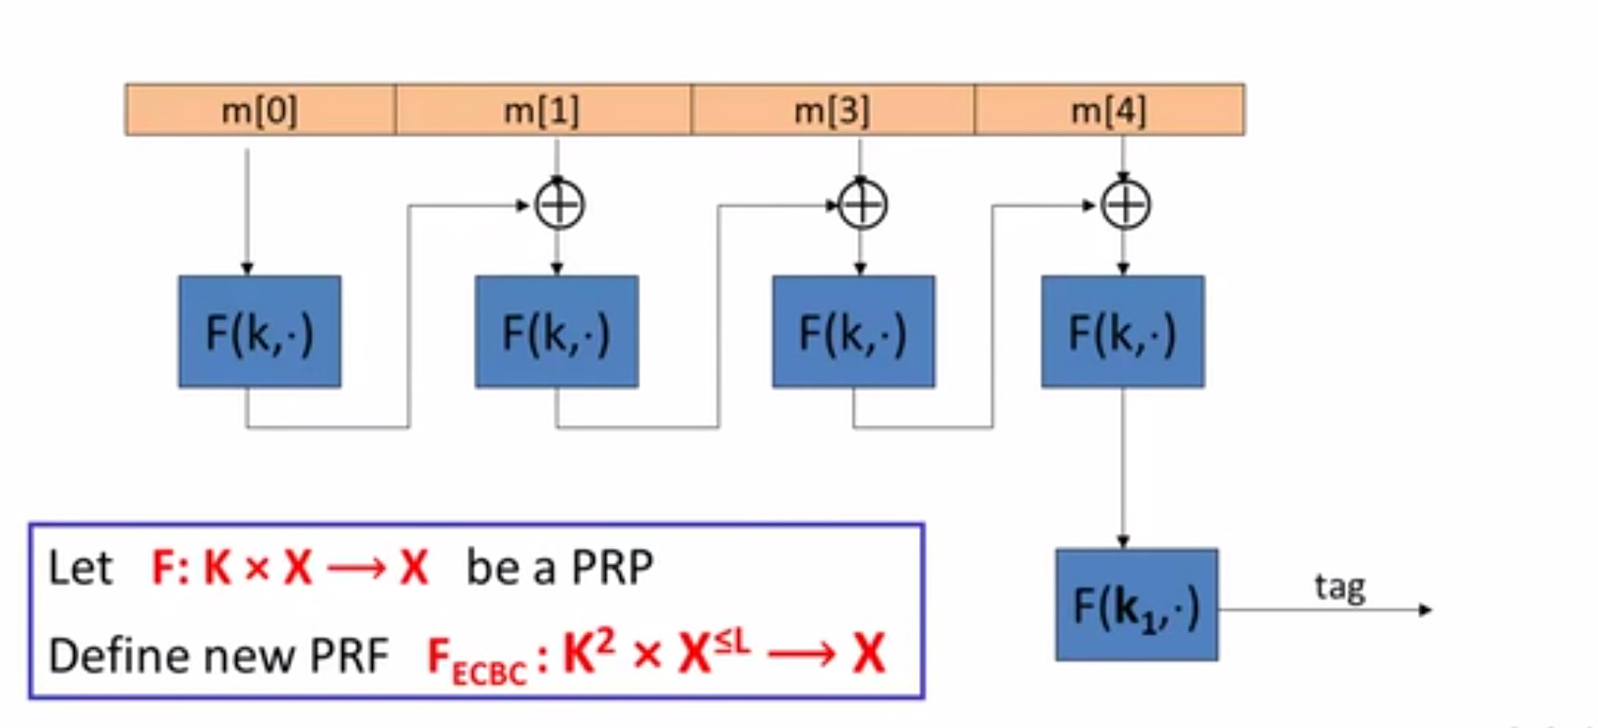
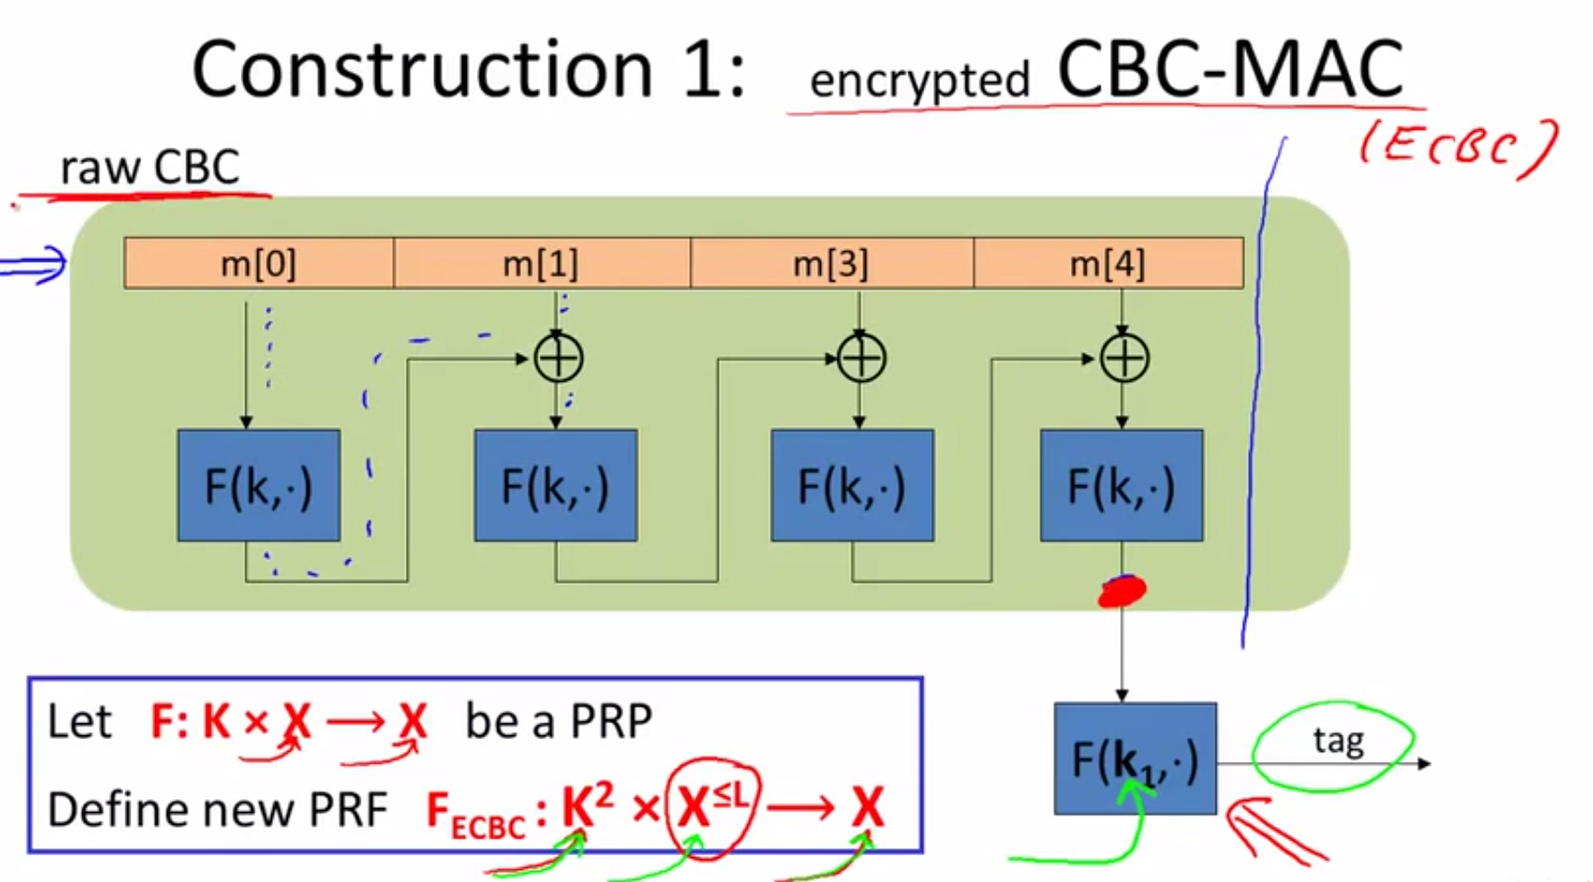
Site updated: 2020-06-24 11:46:48

diff --git a/2020/04/02/【DanBoneh】MessageIntegrity/index.html b/2020/04/02/【DanBoneh】MessageIntegrity/index.html
@@ -85,18 +85,28 @@
 <meta property="og:url" content="http://yoursite.com/2020/04/02/%E3%80%90DanBoneh%E3%80%91MessageIntegrity/index.html">
 <meta property="og:site_name" content="鳕鱼堡er">
 <meta property="og:description" content="Message Auth. CodesMAC（消息验证码）：是一对算法，包含一个签名算法和一个验证算法 I&#x3D;(S,V)，定义在一个密钥空间、一个信息空间、一个标签空间上 (K,M,T)，签名算法 S(k,m) 会输出标签空间 T 中的一个标签 tag，验证算法 V(k,m,tag) 取密钥 k ，信息 m ，标签 tag，输出 yes 或 no。 标准的一致性要求：每一个密钥空间中的密钥 K 和每">
-<meta property="og:image" content="http://yoursite.com/2020/04/02/%E3%80%90DanBoneh%E3%80%91MessageIntegrity/MAC%E6%94%BB%E5%87%BB%E6%A8%A1%E5%9E%8B.PNG">
+<meta property="og:image" content="http://yoursite.com/2020/04/02/%E3%80%90DanBoneh%E3%80%91MessageIntegrity/MAC%E5%AE%89%E5%85%A8%E6%A8%A1%E5%9E%8B.PNG">
+<meta property="og:image" content="http://yoursite.com/2020/04/02/%E3%80%90DanBoneh%E3%80%91MessageIntegrity/%E5%AE%89%E5%85%A8%E7%9A%84MAC%E6%9E%84%E5%BB%BA.PNG">
+<meta property="og:image" content="http://yoursite.com/2020/04/02/%E3%80%90DanBoneh%E3%80%91MessageIntegrity/%E4%B8%80%E4%B8%AA%E7%B3%9F%E7%B3%95%E7%9A%84%E4%BE%8B%E5%AD%90.PNG">
+<meta property="og:image" content="http://yoursite.com/2020/04/02/%E3%80%90DanBoneh%E3%80%91MessageIntegrity/%E5%AE%89%E5%85%A8%E6%80%A7%E5%AE%9A%E7%90%86.PNG">
+<meta property="og:image" content="http://yoursite.com/2020/04/02/%E3%80%90DanBoneh%E3%80%91MessageIntegrity/%E5%AE%89%E5%85%A8%E6%80%A7%E5%AE%9A%E7%90%86%E8%AF%81%E6%98%8E.PNG">
 <meta property="og:image" content="http://yoursite.com/2020/04/02/%E3%80%90DanBoneh%E3%80%91MessageIntegrity/ECBC.PNG">
+<meta property="og:image" content="http://yoursite.com/2020/04/02/%E3%80%90DanBoneh%E3%80%91MessageIntegrity/CBC-MAC%E7%9A%84%E6%89%A9%E5%B1%95%E6%80%A7%E6%94%BB%E5%87%BB.PNG">
+<meta property="og:image" content="http://yoursite.com/2020/04/02/%E3%80%90DanBoneh%E3%80%91MessageIntegrity/%E4%B8%80%E4%B8%AA%E7%89%B9%E6%AE%8A%E7%9A%84%E6%94%BB%E5%87%BB.PNG">
 <meta property="og:image" content="http://yoursite.com/2020/04/02/%E3%80%90DanBoneh%E3%80%91MessageIntegrity/NMAC.PNG">
+<meta property="og:image" content="http://yoursite.com/2020/04/02/%E3%80%90DanBoneh%E3%80%91MessageIntegrity/NMAC%E4%B8%8D%E8%BF%9B%E8%A1%8C%E6%9C%80%E5%90%8E%E4%B8%80%E6%AD%A5%E5%8A%A0%E5%AF%86%E7%9A%84%E4%BE%8B%E5%AD%90.PNG">
+<meta property="og:image" content="http://yoursite.com/2020/04/02/%E3%80%90DanBoneh%E3%80%91MessageIntegrity/NMAC%E7%9A%84%E6%89%A9%E5%B1%95%E6%80%A7%E6%94%BB%E5%87%BB.PNG">
+<meta property="og:image" content="http://yoursite.com/2020/04/02/%E3%80%90DanBoneh%E3%80%91MessageIntegrity/%E5%AE%89%E5%85%A8%E6%80%A7%E5%AE%9A%E7%90%862.PNG">
+<meta property="og:image" content="http://yoursite.com/2020/04/02/%E3%80%90DanBoneh%E3%80%91MessageIntegrity/%E9%92%88%E5%AF%B9CBC-MAC%E7%9A%84%E5%AE%89%E5%85%A8%E6%80%A7%E5%AE%9A%E7%90%86.PNG">
 <meta property="og:image" content="http://yoursite.com/2020/04/02/%E3%80%90DanBoneh%E3%80%91MessageIntegrity/CMAC.PNG">
 <meta property="og:image" content="http://yoursite.com/2020/04/02/%E3%80%90DanBoneh%E3%80%91MessageIntegrity/PMAC.PNG">
 <meta property="article:published_time" content="2020-04-02T01:11:50.000Z">
-<meta property="article:modified_time" content="2020-06-23T08:53:22.135Z">
+<meta property="article:modified_time" content="2020-06-24T03:46:03.375Z">
 <meta property="article:author" content="lucky_Leo">
 <meta property="article:tag" content="DanBoneh密码学">
 <meta property="article:tag" content="密码学">
 <meta name="twitter:card" content="summary">
-<meta name="twitter:image" content="http://yoursite.com/2020/04/02/%E3%80%90DanBoneh%E3%80%91MessageIntegrity/MAC%E6%94%BB%E5%87%BB%E6%A8%A1%E5%9E%8B.PNG">
+<meta name="twitter:image" content="http://yoursite.com/2020/04/02/%E3%80%90DanBoneh%E3%80%91MessageIntegrity/MAC%E5%AE%89%E5%85%A8%E6%A8%A1%E5%9E%8B.PNG">
 
 
 
@@ -361,8 +371,8 @@
               
                 <span class="post-meta-item-text">更新于&#58;</span>
               
-              <time title="更新于" itemprop="dateModified" datetime="2020-06-23T16:53:22+08:00">
-                2020-06-23
+              <time title="更新于" itemprop="dateModified" datetime="2020-06-24T11:46:03+08:00">
+                2020-06-24
               </time>
             
           </span>
@@ -432,7 +442,7 @@
                   <span class="post-meta-item-text">字数统计&#58;</span>
                 
                 <span title="字数统计">
-                  1.1k字
+                  2.2k字
                 </span>
               
 
@@ -448,7 +458,7 @@
                   <span class="post-meta-item-text">阅读时长 &asymp;</span>
                 
                 <span title="阅读时长">
-                  3分钟
+                  7分钟
                 </span>
               
             </div>
@@ -469,22 +479,45 @@
       
 
       
-        <h1><span id="message-auth-codes">Message Auth. Codes</span></h1><p><strong>MAC</strong>（消息验证码）：是一对算法，包含一个<u>签名算法</u>和一个<u>验证算法</u> I=(S,V)，定义在一个密钥空间、一个信息空间、一个标签空间上 (K,M,T)，签名算法 S(k,m) 会输出标签空间 T 中的一个标签 tag，验证算法 V(k,m,tag) 取密钥 k ，信息 m ，标签 tag，输出 yes 或 no。</p>
+        <h4><span id="message-auth-codes">Message Auth. Codes</span></h4><p><strong>MAC</strong>（消息验证码）：是一对算法，包含一个<u>签名算法</u>和一个<u>验证算法</u> I=(S,V)，定义在一个密钥空间、一个信息空间、一个标签空间上 (K,M,T)，签名算法 S(k,m) 会输出标签空间 T 中的一个标签 tag，验证算法 V(k,m,tag) 取密钥 k ，信息 m ，标签 tag，输出 yes 或 no。</p>
 <p><strong>标准的一致性要求</strong>：每一个密钥空间中的密钥 K 和每一个信息空间中的信息 M 都正好满足，如果使用密钥对信息进行签名，使用同样的密钥验证这个签名应该获得 yes 作为回应，V(k,m,S(k,m)) = yes。</p>
 <a id="more"></a>
 <p><strong>CRC</strong>（循环冗余检验）：一个经典的校验和算法，为监测信息中的随机发生的错误而设计，并非针对恶意错误。如果利用 CRC 进行检验，没有密钥，攻击者可以随意更改信息重新计算输出 tag 并得到 yes 的反馈，Alice与攻击者无区别。</p>
 <p>安全的MAC，如果对它进行<strong>选择信息攻击</strong>，是不可能被存在性伪造的。</p>
-<p><strong>存在性伪造</strong>：攻击者不能产生新的信息标签对。</p>
-<p>有两个算法 S 和 V ，有一个攻击者A ，游戏如下：挑战者通常为 MAC 选择一个随机密钥，攻击者进行他的选择信息攻击，他提交 $m_1$ 给挑战者，获得 $m_1$ 的标签，然后提交 $m_2$ 给挑战者，获得 $m_2$ 的标签，直到他提交了 q 个信息给挑战者，获得了 q 个这些信息的标签，这是选择信息攻击的部分，然后攻击者继续试图进行存在性伪造，他输出一个新的信息标签对我们就说他赢下这场游戏，换句话说，b=1 表示他赢下这场游戏。通常，我们定义攻击者的优势等于挑战者在本游戏中输出 1 的概率。安全的MAC系统，对所有有效的攻击者，优势都是可忽略的，换句话说，没有有效的攻击者能够以不可忽视的概率赢得这个游戏。</p>
-<img src="/2020/04/02/%E3%80%90DanBoneh%E3%80%91MessageIntegrity/MAC%E6%94%BB%E5%87%BB%E6%A8%A1%E5%9E%8B.PNG" class title="MAC攻击模型">
-<h1><span id="macs-based-on-prfs">MACs based on PRFs</span></h1><p><u>安全的 PRF 可以构建安全的 MAC</u>。</p>
-<p><strong>CBC-MAC</strong>（ECBC，常与AES一起使用）：取针对短信息的 PRF 为输入，输出一个 PRF ，可以处理长信息作为输出。</p>
+<p><strong>存在性伪造</strong>：攻击者产生新的信息标签对。</p>
+<p>有两个算法 S 和 V ，有一个攻击者A ，游戏如下：挑战者通常为 MAC 选择一个随机密钥，攻击者进行他的<u>选择信息攻击</u>，他提交 $m_1$ 给挑战者，获得 $m_1$ 的标签，然后提交 $m_2$ 给挑战者，获得 $m_2$ 的标签，直到他提交了 q 个信息给挑战者，获得了 q 个这些信息的标签，这是选择信息攻击的部分，然后攻击者继续试图进行存在性伪造，他输出一个新的信息标签对我们就说他赢下这场游戏，换句话说，b=1 表示他赢下这场游戏。通常，我们定义攻击者的优势等于挑战者在本游戏中输出 1 的概率。安全的MAC系统，对所有有效的攻击者，优势都是可忽略的，换句话说，没有有效的攻击者能够以不可忽视的概率赢得这个游戏。</p>
+<img src="/2020/04/02/%E3%80%90DanBoneh%E3%80%91MessageIntegrity/MAC%E5%AE%89%E5%85%A8%E6%A8%A1%E5%9E%8B.PNG" class title="MAC安全模型">
+<h4><span id="macs-based-on-prfs">MACs based on PRFs</span></h4><p><u>安全的 PRF 可以构建安全的 MAC</u>。</p>
+<p><strong>构建安全的MAC</strong>：假设我们有一个伪随机函数 PRF，这个 PRF 取输入 X，输出 Y，<code>F：K×X→Y</code>，定义如下 MAC 为信息 M 签名，<code>S(k,m):= F(k,m)</code>，即计算函数在 M 处的值，信息 M 的标签就是在点 M 处的函数值，然后通过这一对验证信息，方法就是重新计算在信息 M 处的函数值检查结果是否等于给我们的标签，如果一样，我们说“是”，否则我们拒绝。</p>
+<img src="/2020/04/02/%E3%80%90DanBoneh%E3%80%91MessageIntegrity/%E5%AE%89%E5%85%A8%E7%9A%84MAC%E6%9E%84%E5%BB%BA.PNG" class title="安全的MAC构建">
+<p>在如下例题中的 MAC 是不安全的，因为标签太短（当且仅当函数输出太小，才会有问题，如果PRF的输出很大，就可以获得一个安全的 MAC），攻击者有 1/2^(10) 的机会猜中 MAC。对这个MAC 的优势如下：</p>
+<script type="math/tex; mode=display">
+Adv_{MAC}[A,I_F]=\frac{1}{2^{10}}=\frac{1}{1024}(不可忽略)</script><img src="/2020/04/02/%E3%80%90DanBoneh%E3%80%91MessageIntegrity/%E4%B8%80%E4%B8%AA%E7%B3%9F%E7%B3%95%E7%9A%84%E4%BE%8B%E5%AD%90.PNG" class title="一个糟糕的例子">
+<p><strong>安全性定理</strong>：要想获得安全的 MAC，我们需要输出空间很大，例如：取一个 PRF，输出 80 位就很好了，它会产生 80 位 MAC，因此任意攻击者的优势最多是 1/2^(80)。</p>
+<img src="/2020/04/02/%E3%80%90DanBoneh%E3%80%91MessageIntegrity/%E5%AE%89%E5%85%A8%E6%80%A7%E5%AE%9A%E7%90%86.PNG" class title="安全性定理">
+<p><strong>安全性定理证明</strong>：假设有一个从信息空间到标签空间的真随机函数，<code>f:X→Y</code>，这是一个从 X 到 Y 的真随机函数，它是从所有函数集中随机选择的。攻击者获得了信息 $m_1$ 的标签，即在点 $m_1$ 处的函数值，然后攻击者重新选择信息 $m_2$ ，获得了 $m_2$ 的标签，直到 $m_q$ ，他获得了所有对应的标签，它的目标是产生一个新的信息标签对就赢了，也就是存在性伪造，<code>t=f(m)</code>，意味着 t 是 m 的一个有效标签，并且 m 必须是新的，不能是 $m_1$ 到 $m_q$ 中的任何一个，然后它以 1/Y 的概率猜中函数值。</p>
+<img src="/2020/04/02/%E3%80%90DanBoneh%E3%80%91MessageIntegrity/%E5%AE%89%E5%85%A8%E6%80%A7%E5%AE%9A%E7%90%86%E8%AF%81%E6%98%8E.PNG" class title="安全性定理证明">
+<p><strong>简单引理</strong>：如果 N 位 PRF 是安全的，那么 T&lt;N 位的PRF（截断PRF，1/2^T可忽略）也是安全的。</p>
+<h4><span id="cbc-mac-and-nmac">CBC-MAC and NMAC</span></h4><p><strong>CBC-MAC</strong>（ECBC，常与AES一起使用）：取针对短信息的 PRF 为输入，输出一个 PRF ，可以处理长信息作为输出，在银行业广为应用，确保支票的完整性。</p>
+<p>取信息 m ，将它分割成一个个的分组，每个分组和底层函数 f 的分组一样长，然后沿着 CBC 链接运行，但不输出中间值。</p>
+<p>CBC-MAC 可以取最多长 L 个分组的信息，L 可以是百万或十亿的大小。它还可以是变化的输入信息的长度，换句话说，|X|不大于 L，意思是允许输入的信息包含的<u>分组数</u>可以是 0 到 L 的任一数，每个 CBC 可以处理一个分组长的信息、两个分组长的信息、… 、L 个分组长的信息。</p>
 <img src="/2020/04/02/%E3%80%90DanBoneh%E3%80%91MessageIntegrity/ECBC.PNG" class title="ECBC">
 <p>不经历最后一步 $k_1$ 加密的函数，叫做<u>原 CBC 函数</u>。不是一个安全的 MAC。</p>
+<img src="/2020/04/02/%E3%80%90DanBoneh%E3%80%91MessageIntegrity/CBC-MAC%E7%9A%84%E6%89%A9%E5%B1%95%E6%80%A7%E6%94%BB%E5%87%BB.PNG" class title="CBC-MAC的扩展性攻击">
+<p><strong>一个特殊的攻击</strong>：不经历最后一步 $k_1$ 加密的函数，在这个攻击里，攻击者先请求一个特定信息 m 的标签，信息 m 只有一个分组长，对一个单分组信息应用 CBC 意味着，只需要直接应用函数 f ，就获得了这个标签（即直接应用 f 在单分组信息 m 处的结果），现在攻击者有了<code>t=F(k,m)</code>，现在我们声称他可以定义这个信息 m’ ，包含两个分组，第一个是 m ，第二个是 t⊕m ，我们声称刚刚收到的 t 是这两个分组的信息 m’ 的标签，t 是这个两分组信息<code>m&#39;=(m,t⊕m)</code>的有效 MAC ，攻击者可以产生这个有效的标签 t ，而这个两份组的信息是从未被询问过的，因此，他可以破解这个 MAC 。</p>
+<img src="/2020/04/02/%E3%80%90DanBoneh%E3%80%91MessageIntegrity/%E4%B8%80%E4%B8%AA%E7%89%B9%E6%AE%8A%E7%9A%84%E6%94%BB%E5%87%BB.PNG" class title="一个特殊的攻击">
+<p><strong>HMAC</strong>：取处理短输入的 PRF ，产生能处理长输入的 PRF，在因特网上 SSL、IPesc、SSH 等协议使用 HMAC 来保护完整性。</p>
 <p><strong>NMAC</strong>：同上，取处理短输入的 PRF ，产生能处理长输入的 PRF。</p>
+<p>NMAC 用到的 PRF 的分组长度 |X| 远远大于密钥长度，把固定的补齐附在信息后面，fpad 是固定的补齐。</p>
 <img src="/2020/04/02/%E3%80%90DanBoneh%E3%80%91MessageIntegrity/NMAC.PNG" class title="NMAC">
-<p>不经历最后一步 $k_1$ 加密的函数，为<u>级联函数</u>。不是安全的 MAC。最后一步的加密阻止了<u>扩展攻击</u>。</p>
-<p>如果 N 位 PRF 是安全的，那么 T&lt;N 位的PRF（截断PRF，1/2^N可忽略）也是安全的。</p>
+<p>不经历最后一步 $k_1$ 加密的函数，为<u>级联函数</u>。不是安全的 MAC。最后一步的加密阻止了<u>扩展攻击</u>，扩展攻击是针对级联的唯一一种攻击。</p>
+<img src="/2020/04/02/%E3%80%90DanBoneh%E3%80%91MessageIntegrity/NMAC%E4%B8%8D%E8%BF%9B%E8%A1%8C%E6%9C%80%E5%90%8E%E4%B8%80%E6%AD%A5%E5%8A%A0%E5%AF%86%E7%9A%84%E4%BE%8B%E5%AD%90.PNG" class title="NMAC不进行最后一步加密的例子">
+<img src="/2020/04/02/%E3%80%90DanBoneh%E3%80%91MessageIntegrity/NMAC%E7%9A%84%E6%89%A9%E5%B1%95%E6%80%A7%E6%94%BB%E5%87%BB.PNG" class title="NMAC的扩展性攻击">
+<img src="/2020/04/02/%E3%80%90DanBoneh%E3%80%91MessageIntegrity/%E5%AE%89%E5%85%A8%E6%80%A7%E5%AE%9A%E7%90%862.PNG" class title="安全性定理2">
+<p><strong>针对 CBC-MAC 的安全性定理</strong>：q 是询问的信息数，并用一个特定密钥计算 MAC ，假设我们想确保所有的攻击者区分 PRF 和真随机函数的优势都小于 1/2^32 ，根据安全性定理，这意味着我们需要确保 <code>(q^2)/|X| &lt; 1/2^32</code>，超过了 32 这个安全长度就必须更换密钥。</p>
+<img src="/2020/04/02/%E3%80%90DanBoneh%E3%80%91MessageIntegrity/%E9%92%88%E5%AF%B9CBC-MAC%E7%9A%84%E5%AE%89%E5%85%A8%E6%80%A7%E5%AE%9A%E7%90%86.PNG" class title="针对CBC-MAC的安全性定理">
+<p>在签名了 |X|^1/2^ 或 |K| 的平方根个信息后，MAC 就不再安全。</p>
+
 <p><strong>补齐函数</strong>：本身必须是一一映射的函数，它应当是将两个不同的信息映射到不同的两个补齐的信息，不应该在补齐函数上有碰撞，必须是可逆的。</p>
 <p><strong>CMAC</strong>（常与AES一起使用）：可以使用一个随机的补齐函数，不用加假分组。使用三密钥机制，第一个密钥 k 用于 CBC 计算标准的 CBC-MAC 算法，密钥 $k_1$ 和 $k_2$ 仅用于最后一个分组的补齐。 $k_1$ 和 $k_2$ 是使用伪随机数发生器由 k 推出的。如果信息长度正好是分组长度的整数倍，采用 ISO 补齐，并把最后一个分组和密钥 $k_1$ 异或；如果信息长度不是分组长度的整数倍，不做扩展，把最后一个分组和密钥 $k_2$ 异或。</p>
 <img src="/2020/04/02/%E3%80%90DanBoneh%E3%80%91MessageIntegrity/CMAC.PNG" class title="CMAC">
@@ -677,7 +710,7 @@
             
 
             
-              <div class="post-toc-content"><ol class="nav"><li class="nav-item nav-level-1"><a class="nav-link" href="#"><span class="nav-number">1.</span> <span class="nav-text">Message Auth. Codes</span></a></li><li class="nav-item nav-level-1"><a class="nav-link" href="#"><span class="nav-number">2.</span> <span class="nav-text">MACs based on PRFs</span></a></li></ol></div>
+              <div class="post-toc-content"><ol class="nav"><li class="nav-item nav-level-4"><a class="nav-link" href="#"><span class="nav-number">1.</span> <span class="nav-text">Message Auth. Codes</span></a></li><li class="nav-item nav-level-4"><a class="nav-link" href="#"><span class="nav-number">2.</span> <span class="nav-text">MACs based on PRFs</span></a></li><li class="nav-item nav-level-4"><a class="nav-link" href="#"><span class="nav-number">3.</span> <span class="nav-text">CBC-MAC and NMAC</span></a></li></ol></div>
             
 
           </div>
@@ -995,7 +1028,7 @@ if(canvas.getContext){
       <i class="fa fa-area-chart"></i>
     </span>
     <span title="站点总字数">
-	  <span class="post-count">13.9k</span>
+	  <span class="post-count">15k</span>
 	</span>
 	<span class="post-meta-divider">|</span>
 	<span class="post-meta-item-icon">

diff --git a/index.html b/index.html
@@ -1212,8 +1212,8 @@
               
                 <span class="post-meta-item-text">更新于&#58;</span>
               
-              <time title="更新于" itemprop="dateModified" datetime="2020-06-23T16:53:22+08:00">
-                2020-06-23
+              <time title="更新于" itemprop="dateModified" datetime="2020-06-24T11:46:03+08:00">
+                2020-06-24
               </time>
             
           </span>
@@ -1283,7 +1283,7 @@
                   <span class="post-meta-item-text">字数统计&#58;</span>
                 
                 <span title="字数统计">
-                  1.1k字
+                  2.2k字
                 </span>
               
 
@@ -1299,7 +1299,7 @@
                   <span class="post-meta-item-text">阅读时长 &asymp;</span>
                 
                 <span title="阅读时长">
-                  3分钟
+                  7分钟
                 </span>
               
             </div>
@@ -1321,7 +1321,7 @@
 
       
         
-          <h1 id="Message-Auth-Codes"><a href="#Message-Auth-Codes" class="headerlink" title="Message Auth. Codes"></a>Message Auth. Codes</h1><p><strong>MAC</strong>（消息验证码）：是一对算法，包含一个<u>签名算法</u>和一个<u>验证算法</u> I=(S,V)，定义在一个密钥空间、一个信息空间、一个标签空间上 (K,M,T)，签名算法 S(k,m) 会输出标签空间 T 中的一个标签 tag，验证算法 V(k,m,tag) 取密钥 k ，信息 m ，标签 tag，输出 yes 或 no。</p>
+          <h4 id="Message-Auth-Codes"><a href="#Message-Auth-Codes" class="headerlink" title="Message Auth. Codes"></a>Message Auth. Codes</h4><p><strong>MAC</strong>（消息验证码）：是一对算法，包含一个<u>签名算法</u>和一个<u>验证算法</u> I=(S,V)，定义在一个密钥空间、一个信息空间、一个标签空间上 (K,M,T)，签名算法 S(k,m) 会输出标签空间 T 中的一个标签 tag，验证算法 V(k,m,tag) 取密钥 k ，信息 m ，标签 tag，输出 yes 或 no。</p>
 <p><strong>标准的一致性要求</strong>：每一个密钥空间中的密钥 K 和每一个信息空间中的信息 M 都正好满足，如果使用密钥对信息进行签名，使用同样的密钥验证这个签名应该获得 yes 作为回应，V(k,m,S(k,m)) = yes。</p>
           <!--noindex-->
           <div class="post-button text-center">
@@ -2852,7 +2852,7 @@ if(canvas.getContext){
       <i class="fa fa-area-chart"></i>
     </span>
     <span title="站点总字数">
-	  <span class="post-count">13.9k</span>
+	  <span class="post-count">15k</span>
 	</span>
 	<span class="post-meta-divider">|</span>
 	<span class="post-meta-item-icon">

diff --git a/2020/03/22/【现代密码学理论与实践】概率论和信息论/index.html b/2020/03/22/【现代密码学理论与实践】概率论和信息论/index.html
@@ -1000,7 +1000,7 @@ if(canvas.getContext){
       <i class="fa fa-area-chart"></i>
     </span>
     <span title="站点总字数">
-	  <span class="post-count">13.9k</span>
+	  <span class="post-count">15k</span>
 	</span>
 	<span class="post-meta-divider">|</span>
 	<span class="post-meta-item-icon">

diff --git a/2020/03/24/【DanBoneh】StreamCiphers/index.html b/2020/03/24/【DanBoneh】StreamCiphers/index.html
@@ -1011,7 +1011,7 @@ if(canvas.getContext){
       <i class="fa fa-area-chart"></i>
     </span>
     <span title="站点总字数">
-	  <span class="post-count">13.9k</span>
+	  <span class="post-count">15k</span>
 	</span>
 	<span class="post-meta-divider">|</span>
 	<span class="post-meta-item-icon">

diff --git a/2020/03/30/【pptx】对称密码1/index.html b/2020/03/30/【pptx】对称密码1/index.html
@@ -1015,7 +1015,7 @@ if(canvas.getContext){
       <i class="fa fa-area-chart"></i>
     </span>
     <span title="站点总字数">
-	  <span class="post-count">13.9k</span>
+	  <span class="post-count">15k</span>
 	</span>
 	<span class="post-meta-divider">|</span>
 	<span class="post-meta-item-icon">

diff --git a/2020/03/30/【pptx】对称密码2/index.html b/2020/03/30/【pptx】对称密码2/index.html
@@ -1046,7 +1046,7 @@ if(canvas.getContext){
       <i class="fa fa-area-chart"></i>
     </span>
     <span title="站点总字数">
-	  <span class="post-count">13.9k</span>
+	  <span class="post-count">15k</span>
 	</span>
 	<span class="post-meta-divider">|</span>
 	<span class="post-meta-item-icon">

diff --git a/2020/06/19/【总结归纳】对称加密知识点串讲/index.html b/2020/06/19/【总结归纳】对称加密知识点串讲/index.html
@@ -1041,7 +1041,7 @@ if(canvas.getContext){
       <i class="fa fa-area-chart"></i>
     </span>
     <span title="站点总字数">
-	  <span class="post-count">13.9k</span>
+	  <span class="post-count">15k</span>
 	</span>
 	<span class="post-meta-divider">|</span>
 	<span class="post-meta-item-icon">

diff --git a/archives/2020/03/index.html b/archives/2020/03/index.html
@@ -1100,7 +1100,7 @@ if(canvas.getContext){
       <i class="fa fa-area-chart"></i>
     </span>
     <span title="站点总字数">
-	  <span class="post-count">13.9k</span>
+	  <span class="post-count">15k</span>
 	</span>
 	<span class="post-meta-divider">|</span>
 	<span class="post-meta-item-icon">

diff --git a/archives/2020/index.html b/archives/2020/index.html
@@ -1100,7 +1100,7 @@ if(canvas.getContext){
       <i class="fa fa-area-chart"></i>
     </span>
     <span title="站点总字数">
-	  <span class="post-count">13.9k</span>
+	  <span class="post-count">15k</span>
 	</span>
 	<span class="post-meta-divider">|</span>
 	<span class="post-meta-item-icon">

diff --git a/archives/2020/page/2/index.html b/archives/2020/page/2/index.html
@@ -1063,7 +1063,7 @@ if(canvas.getContext){
       <i class="fa fa-area-chart"></i>
     </span>
     <span title="站点总字数">
-	  <span class="post-count">13.9k</span>
+	  <span class="post-count">15k</span>
 	</span>
 	<span class="post-meta-divider">|</span>
 	<span class="post-meta-item-icon">

diff --git a/archives/index.html b/archives/index.html
@@ -1100,7 +1100,7 @@ if(canvas.getContext){
       <i class="fa fa-area-chart"></i>
     </span>
     <span title="站点总字数">
-	  <span class="post-count">13.9k</span>
+	  <span class="post-count">15k</span>
 	</span>
 	<span class="post-meta-divider">|</span>
 	<span class="post-meta-item-icon">

diff --git a/archives/page/2/index.html b/archives/page/2/index.html
@@ -1063,7 +1063,7 @@ if(canvas.getContext){
       <i class="fa fa-area-chart"></i>
     </span>
     <span title="站点总字数">
-	  <span class="post-count">13.9k</span>
+	  <span class="post-count">15k</span>
 	</span>
 	<span class="post-meta-divider">|</span>
 	<span class="post-meta-item-icon">
